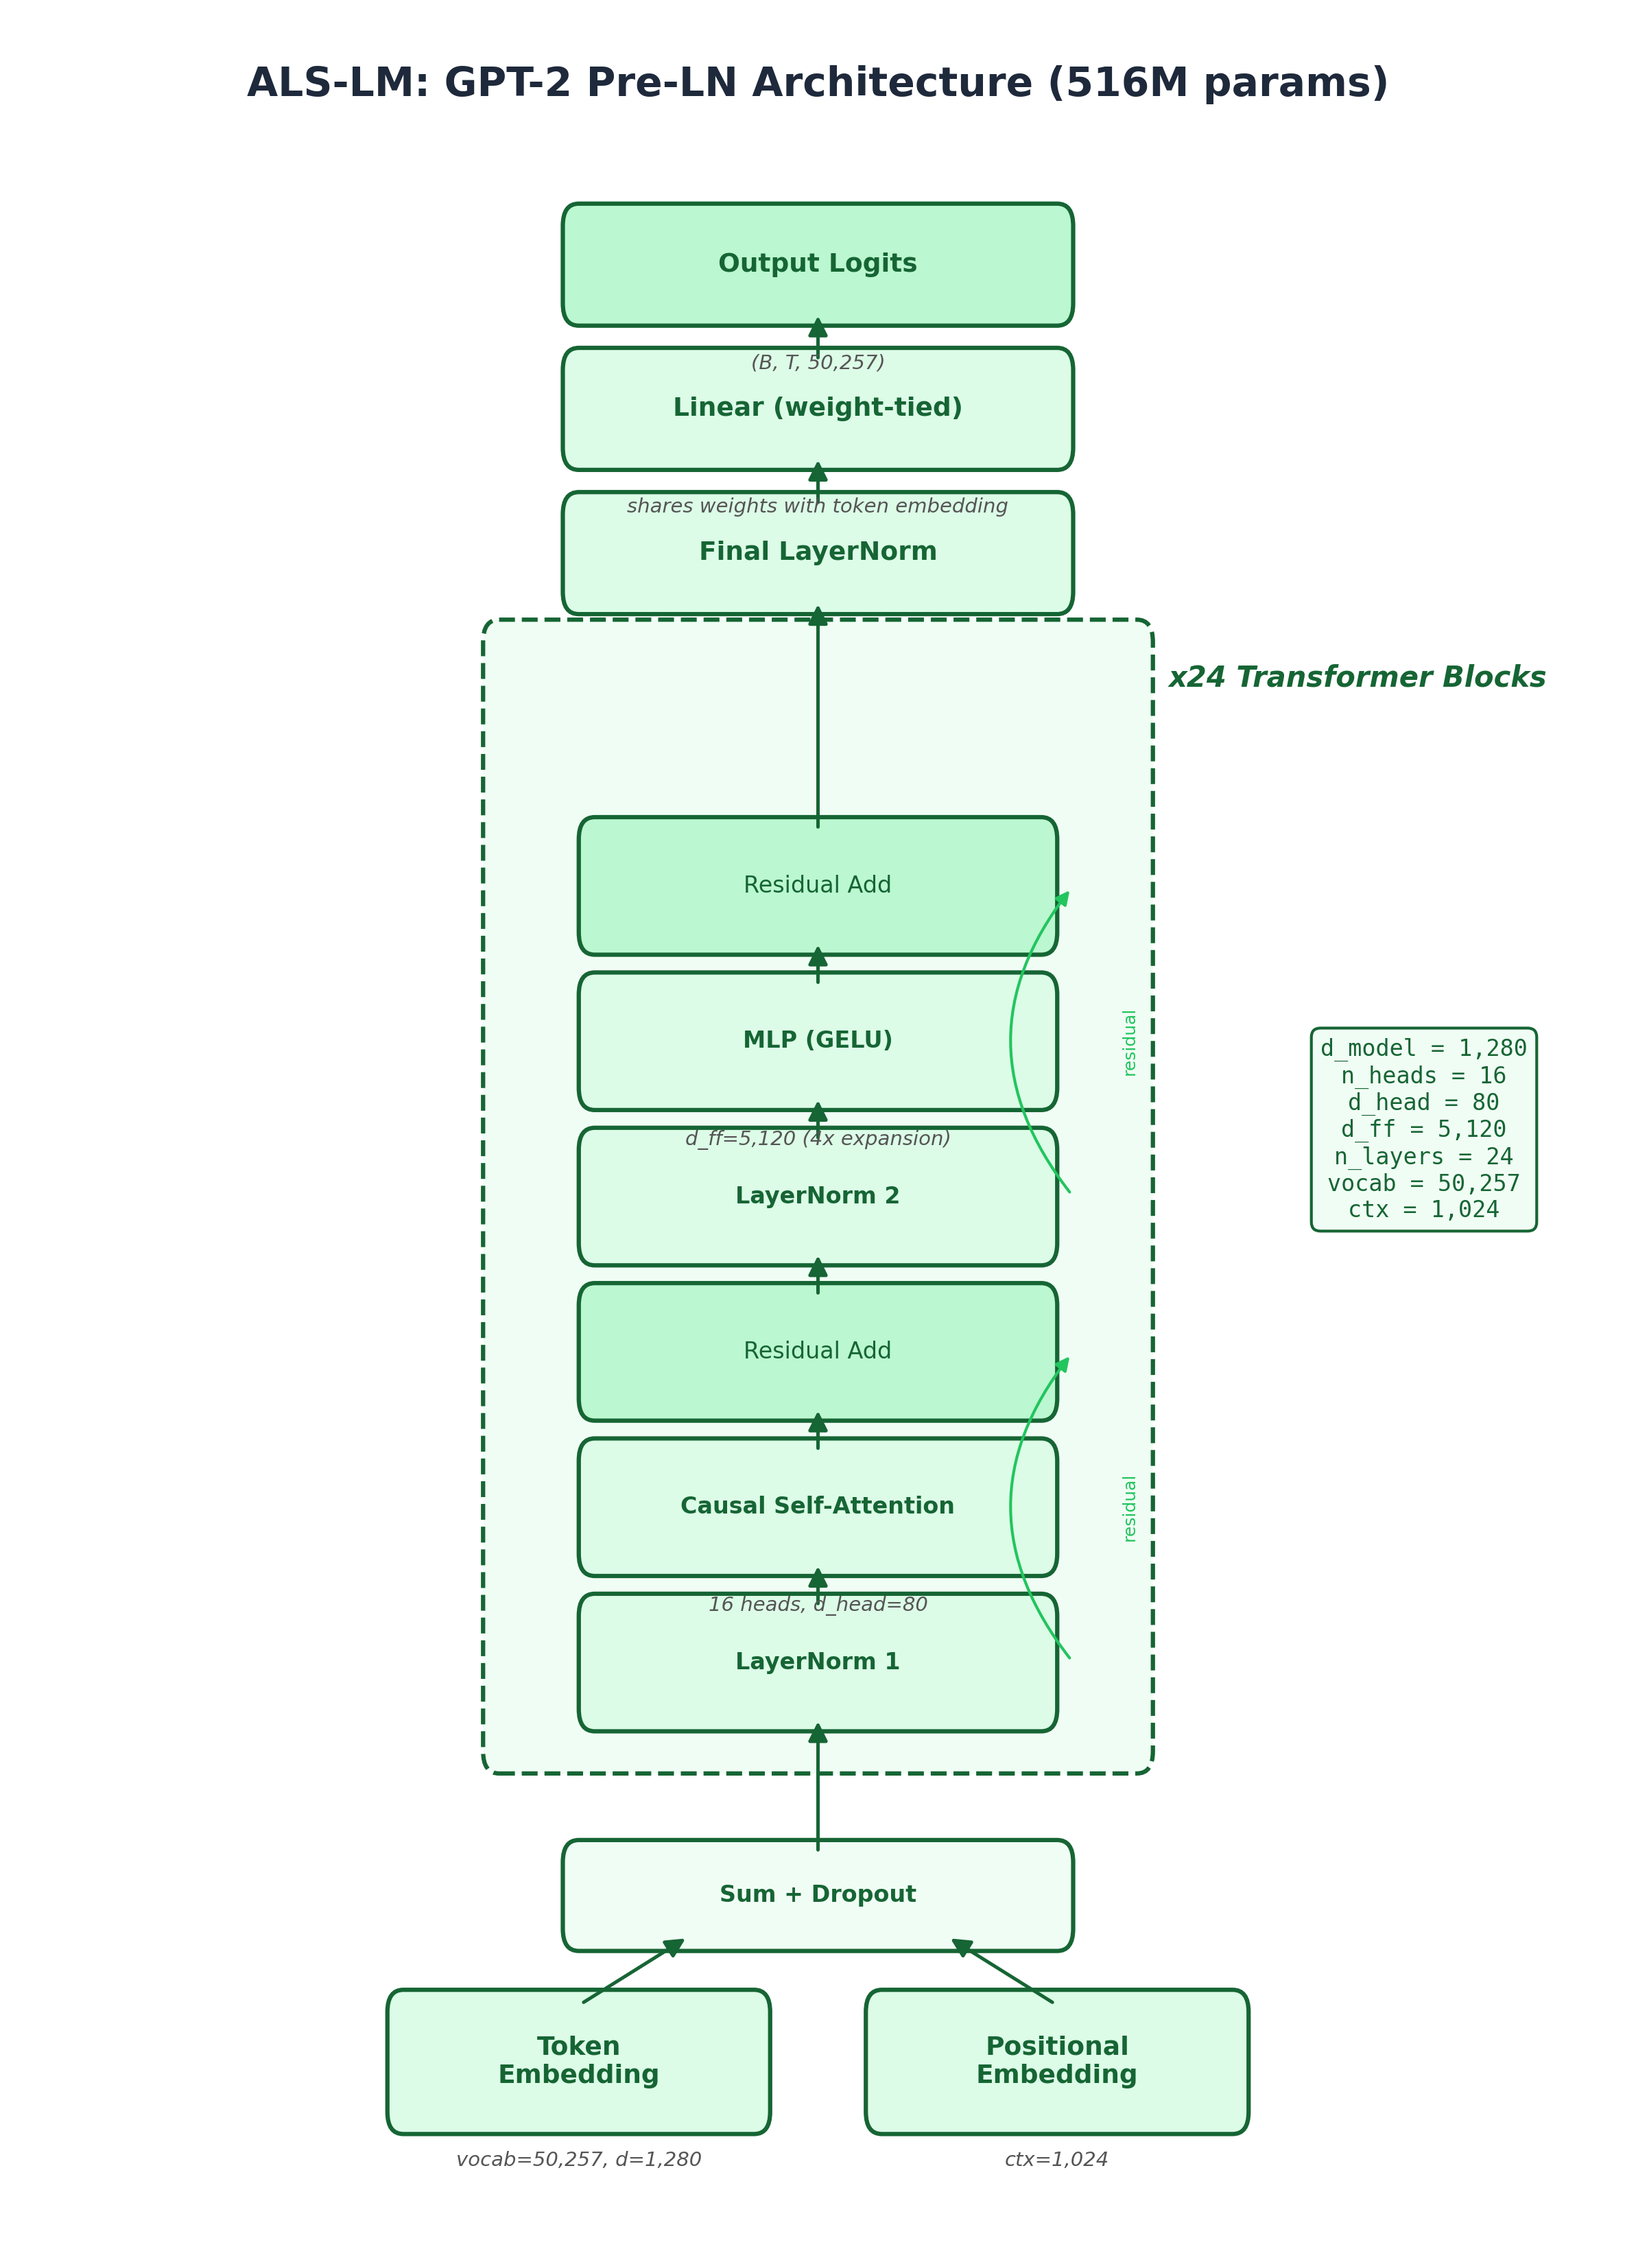
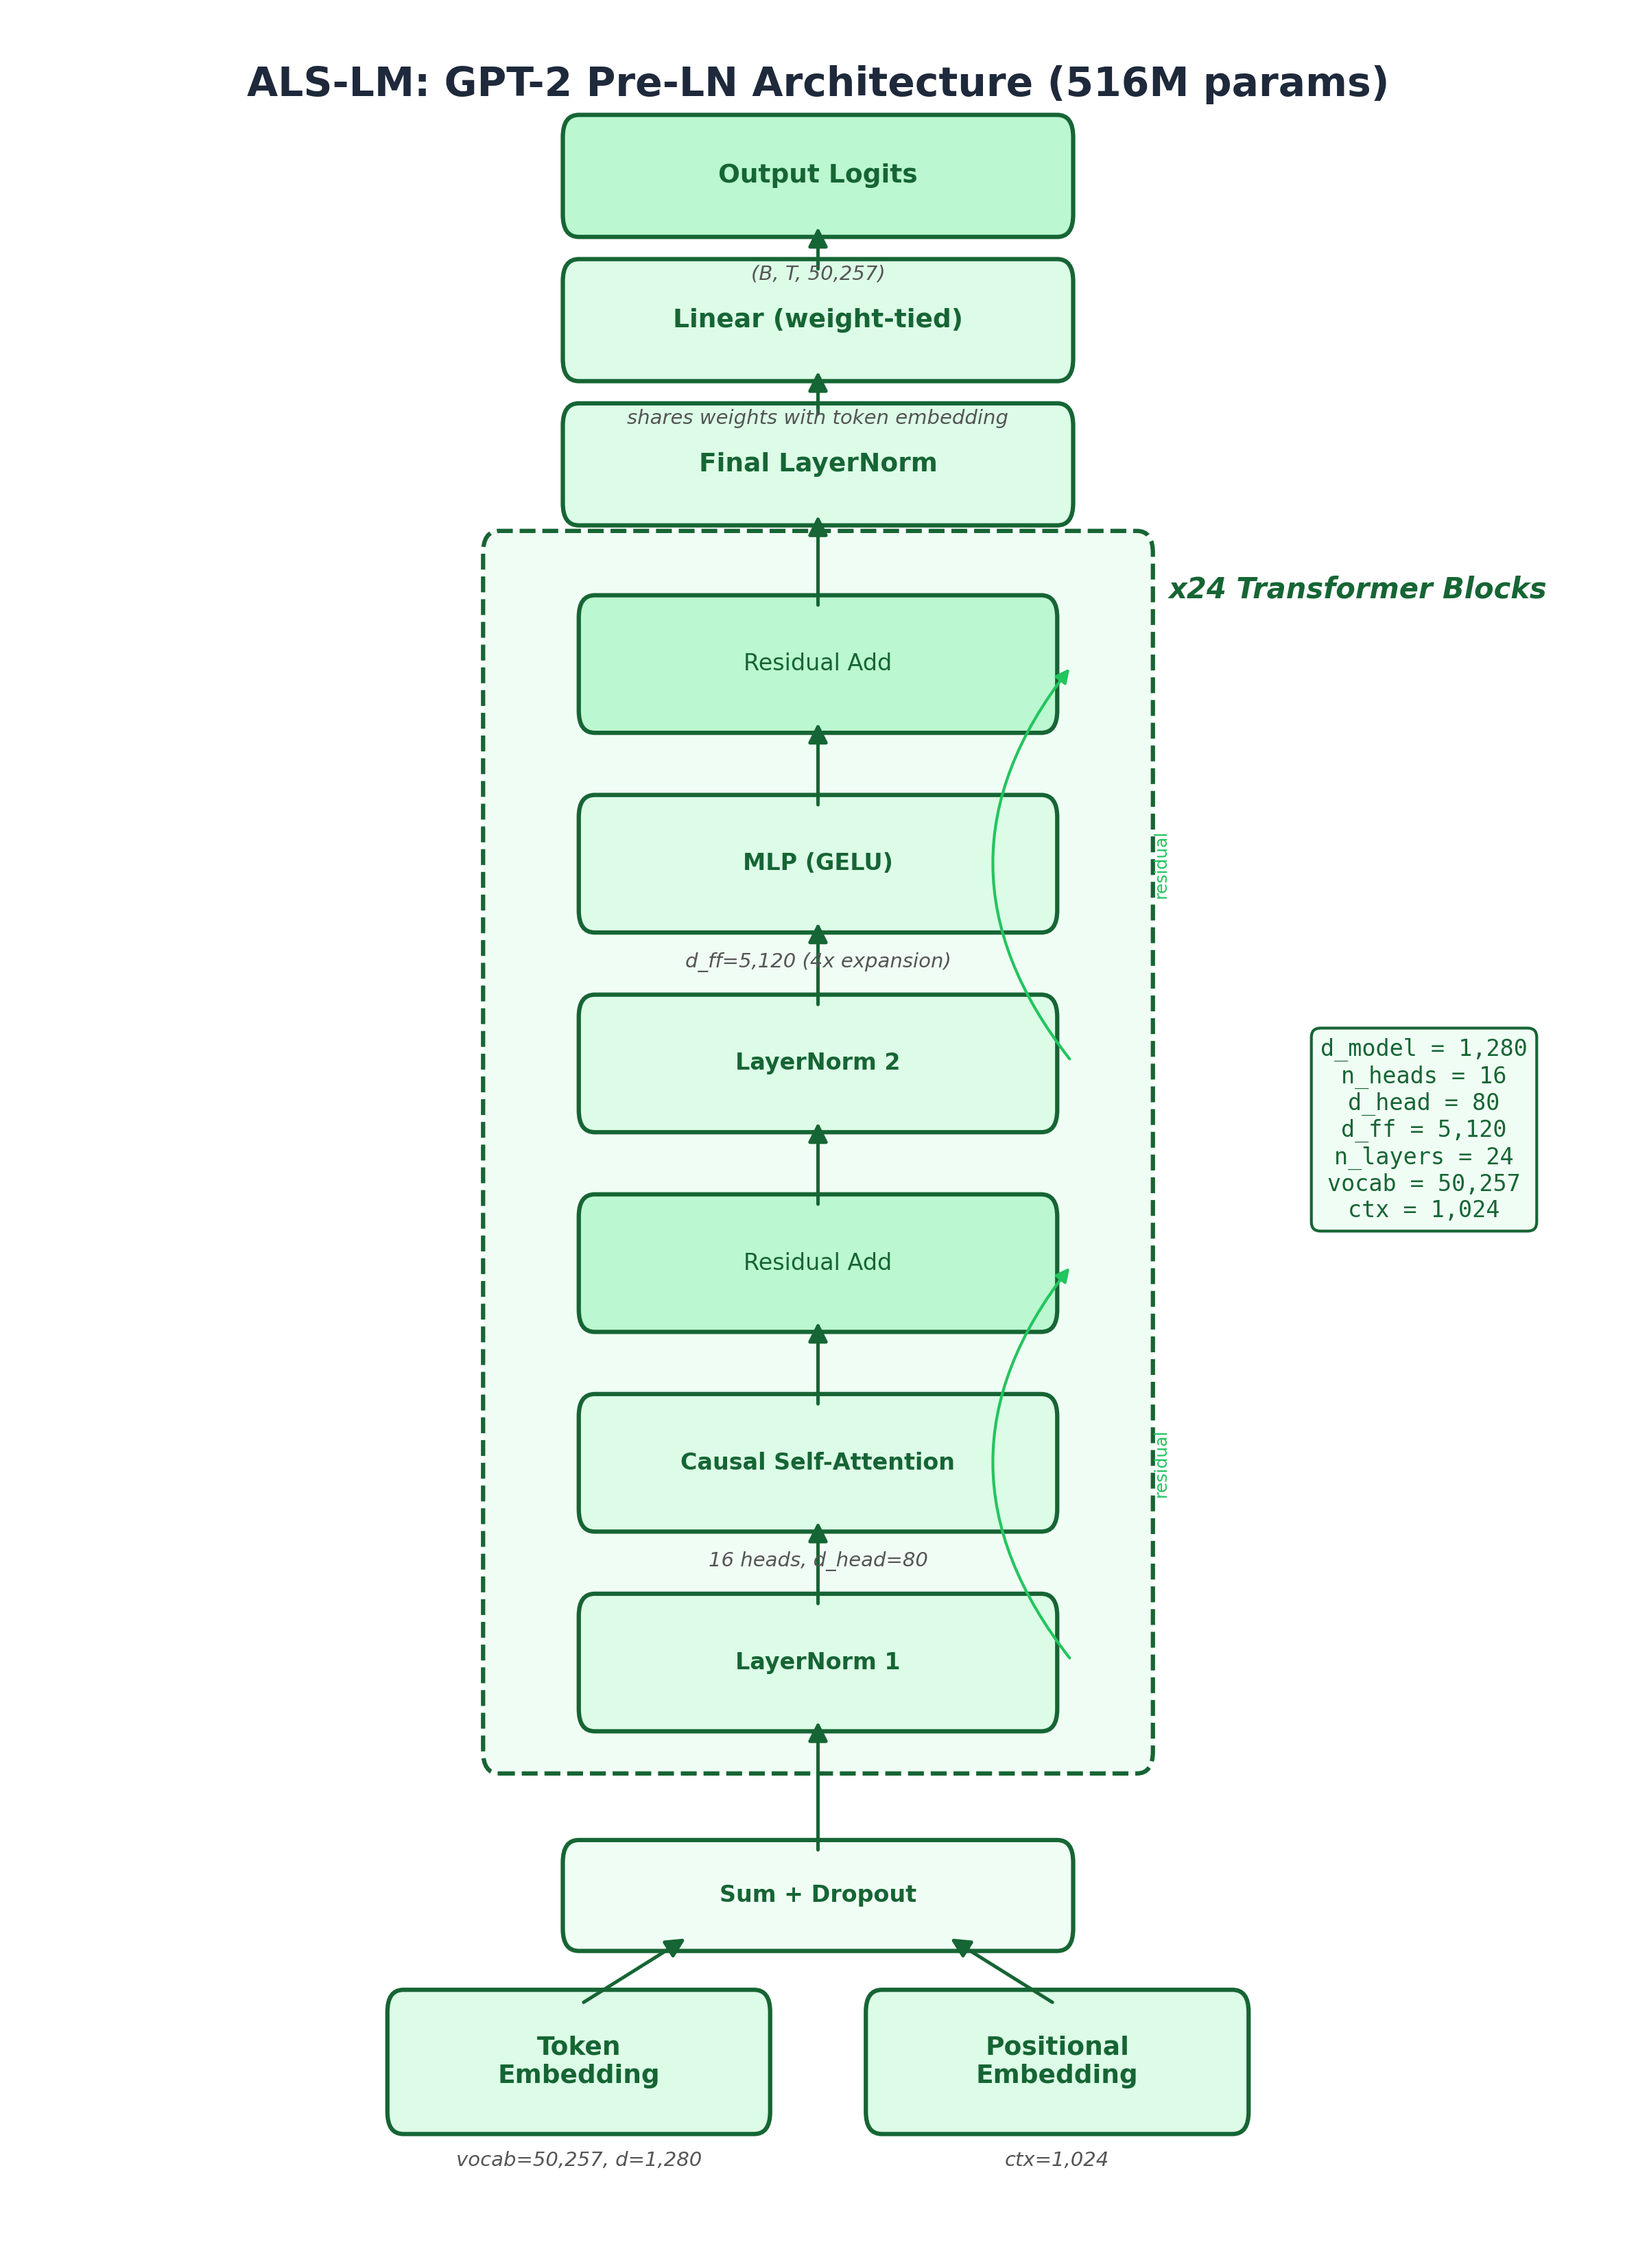
Fix diagram layout overlaps and rename paper to lowercase
Move annotations below boxes in pipeline diagram, increase layer
spacing in architecture diagram, widen eval framework margins, and
move residual labels to prevent arrow overlap. Rename PAPER.md to
paper.md for consistency.

Changed region(s): [[0.3413, 0.031, 0.9308, 0.7122], [0.6826, 0.6503, 0.7136, 0.6812]]

diff --git a/scripts/generate_figures.py b/scripts/generate_figures.py
@@ -443,7 +443,8 @@ def create_pipeline_diagram(output_path: Path) -> None:
     ]
 
     for label, cx, ann in row1_boxes:
-        _draw_box(ax, cx, row1_y, bw, bh, label, fill, border, annotation=ann)
+        _draw_box(ax, cx, row1_y, bw, bh, label, fill, border, annotation=ann,
+                  ann_offset=(0, -bh / 2 - 0.02))
 
     # Arrows for row 1 (with data annotation on first arrow)
     arrow_y1 = row1_y
@@ -472,7 +473,8 @@ def create_pipeline_diagram(output_path: Path) -> None:
     ]
 
     for label, cx, ann in row2_boxes:
-        _draw_box(ax, cx, row2_y, bw, bh, label, fill, border, annotation=ann)
+        _draw_box(ax, cx, row2_y, bw, bh, label, fill, border, annotation=ann,
+                  ann_offset=(0, -bh / 2 - 0.02))
 
     # Arrows for row 2 (right to left)
     for i in range(len(row2_boxes) - 1):
@@ -484,7 +486,8 @@ def create_pipeline_diagram(output_path: Path) -> None:
     _draw_box(
         ax, 0.10, row2_y, bw, bh,
         "Research\nPaper", "#e0e7ff", border,
-        annotation="PAPER.md + figures",
+        annotation="paper.md + figures",
+        ann_offset=(0, -bh / 2 - 0.02),
     )
     _draw_arrow(
         ax, row2_boxes[2][1] - bw / 2 - 0.005, row2_y,
@@ -542,7 +545,7 @@ def create_model_architecture_diagram(output_path: Path) -> None:
 
     # Transformer block (expanded)
     block_bottom = 0.22
-    block_top = 0.72
+    block_top = 0.76
 
     # Block border (dashed)
     block_rect = mpatches.FancyBboxPatch(
@@ -562,7 +565,7 @@ def create_model_architecture_diagram(output_path: Path) -> None:
     # Inside the block: LayerNorm -> Attention -> Residual -> LayerNorm -> MLP -> Residual
     inner_bw = 0.28
     inner_bh = 0.042
-    spacing = 0.07
+    spacing = 0.09
 
     inner_y = block_bottom + 0.04
     inner_layers = [
@@ -604,7 +607,7 @@ def create_model_architecture_diagram(output_path: Path) -> None:
             connectionstyle="arc3,rad=-0.4",
         ),
     )
-    ax.text(res1_x + 0.02, (inner_positions[0] + inner_positions[2]) / 2,
+    ax.text(res1_x + 0.04, (inner_positions[0] + inner_positions[2]) / 2,
             "residual", fontsize=6, color="#22c55e", rotation=90,
             ha="left", va="center")
 
@@ -617,7 +620,7 @@ def create_model_architecture_diagram(output_path: Path) -> None:
             connectionstyle="arc3,rad=-0.4",
         ),
     )
-    ax.text(res1_x + 0.02, (inner_positions[3] + inner_positions[5]) / 2,
+    ax.text(res1_x + 0.04, (inner_positions[3] + inner_positions[5]) / 2,
             "residual", fontsize=6, color="#22c55e", rotation=90,
             ha="left", va="center")
 
@@ -702,8 +705,8 @@ def create_eval_framework_diagram(output_path: Path) -> None:
 
     # Spread stages evenly across the figure
     n = len(stages)
-    x_start = 0.09
-    x_end = 0.91
+    x_start = 0.11
+    x_end = 0.85
     x_positions = [x_start + i * (x_end - x_start) / (n - 1) for i in range(n)]
     stage_y = 0.50
 
